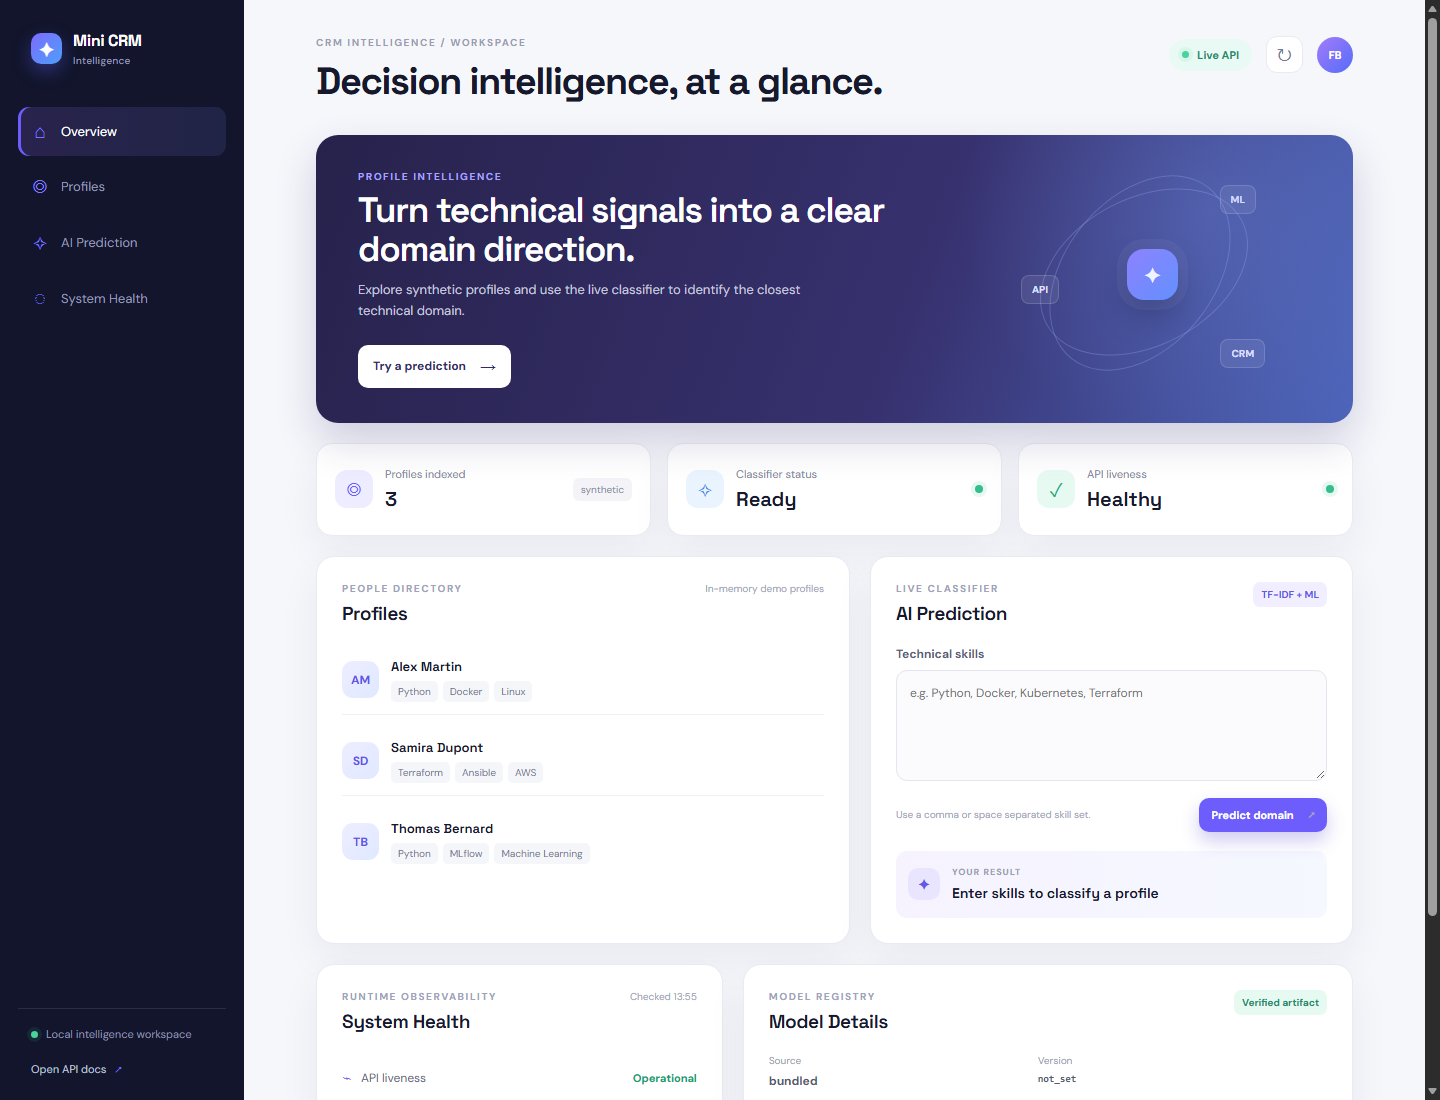
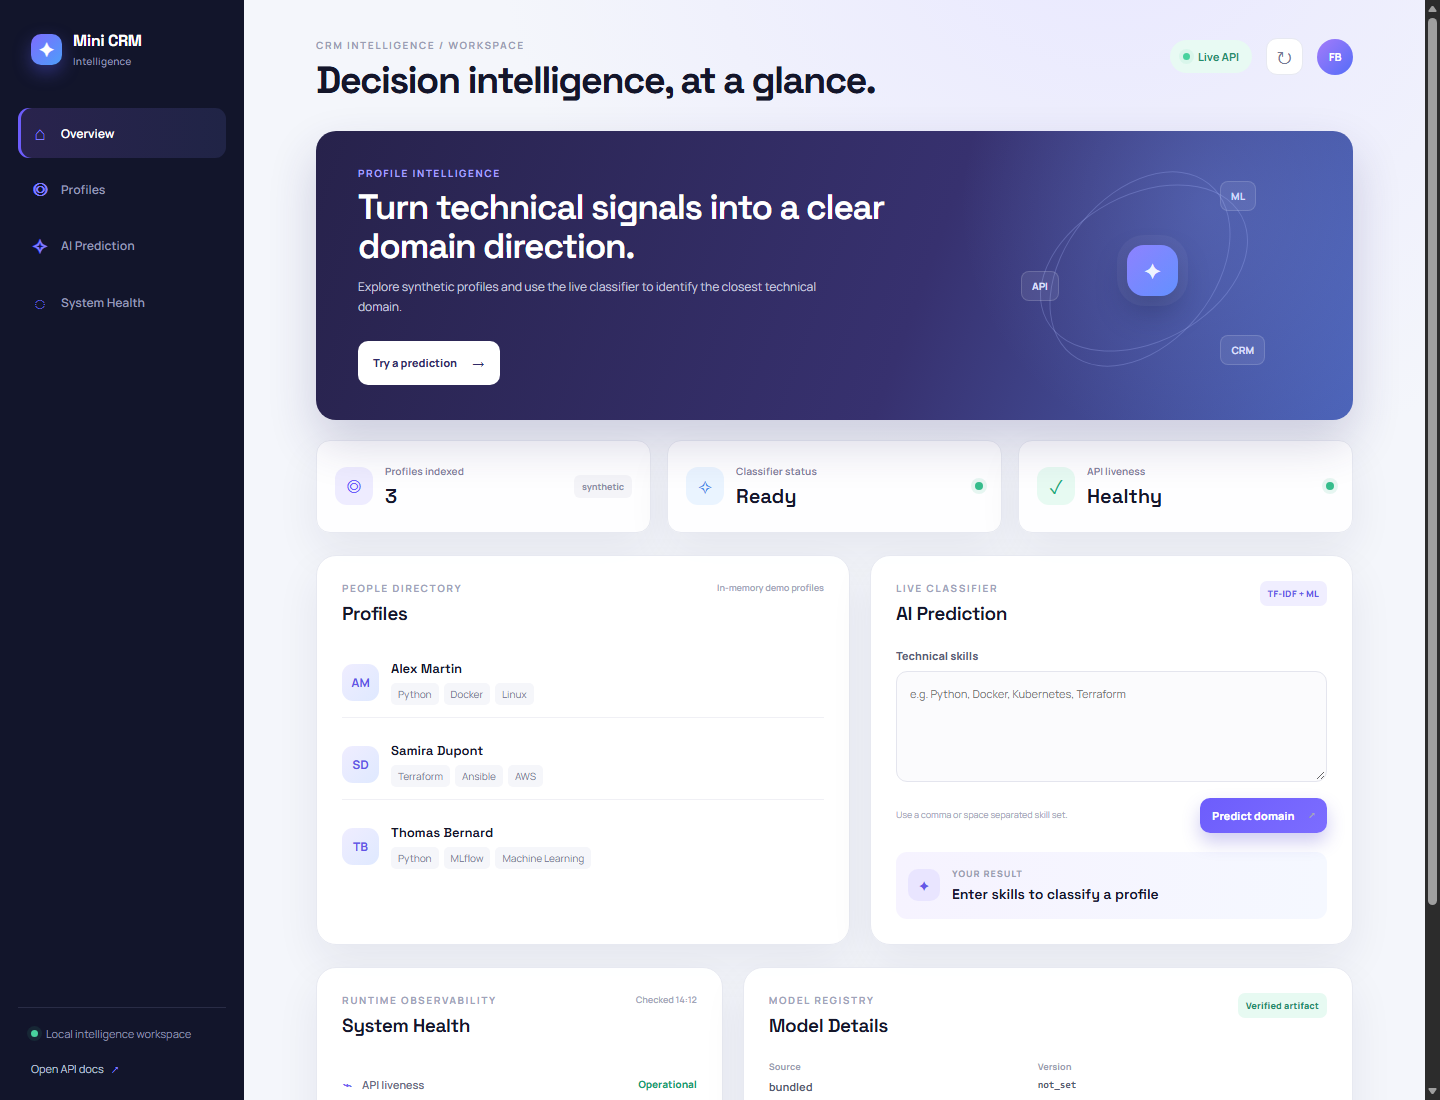
style(ui): refine dashboard typography and layout

diff --git a/app/static/styles.css b/app/static/styles.css
@@ -1,4 +1,4 @@
-@import url('https://fonts.googleapis.com/css2?family=DM+Sans:wght@400;500;600;700&family=Space+Grotesk:wght@500;600;700&display=swap');
+@import url('https://fonts.googleapis.com/css2?family=Manrope:wght@400;500;600;700;800&family=Space+Grotesk:wght@500;600;700&display=swap');
 
 :root { --ink:#16182b; --muted:#8589a3; --line:#e9eaf2; --panel:#fff; --bg:#f6f7fb; --violet:#6d5dfc; --blue:#4f9cf9; --green:#36bd8c; --shadow:0 16px 40px rgba(33,32,74,.06); }
 * { box-sizing:border-box; }
@@ -30,3 +30,34 @@ button, textarea { font:inherit; }
 .lower-grid { grid-template-columns:.8fr 1.2fr; }.health-list { display:grid; gap:0; }.health-row { display:flex; justify-content:space-between; align-items:center; padding:13px 0; border-bottom:1px solid #f0f0f5; font-size:12px; }.health-row:last-child { border-bottom:0; }.health-label { display:flex; align-items:center; gap:9px; color:#676a83; }.health-icon { color:#7164f1; font-size:16px; }.health-value { color:#999caf; font-size:11px; }.health-value.ok { color:#1b9d70; font-weight:700; }.health-value.error { color:#d66c6c; font-weight:700; }.model-details { display:grid; grid-template-columns:1fr 1.2fr; gap:16px 28px; }.model-details div:last-child { grid-column:1/-1; }.model-details span { display:block; margin-bottom:6px; color:#9a9db2; font-size:10px; }.model-details strong,.hash-button { display:block; max-width:100%; overflow:hidden; text-overflow:ellipsis; white-space:nowrap; color:#555970; font-size:12px; }.mono { font-family:ui-monospace,SFMono-Regular,Menlo,monospace; font-size:10px !important; }.hash-button { width:100%; padding:0; text-align:left; border:0; background:none; cursor:pointer; }.hash-button:hover { color:var(--violet); }.page-footer { display:flex; justify-content:space-between; padding:20px 2px 0; color:#a1a4b6; font-size:10px; }.toast { position:fixed; right:25px; bottom:22px; padding:11px 14px; border-radius:10px; color:#fff; background:#21243d; box-shadow:0 10px 30px #17172d33; font-size:11px; opacity:0; transform:translateY(10px); pointer-events:none; transition:.25s; }.toast.show { opacity:1; transform:translateY(0); }
 @media (max-width:1050px) { .sidebar { width:210px; }.main-content { width:calc(100% - 210px); margin-left:210px; padding:28px; }.hero-orbit { margin-right:0; transform:scale(.85); }.content-grid,.lower-grid { grid-template-columns:1fr; } }
 @media (max-width:700px) { .sidebar { position:static; width:100%; min-height:auto; padding:16px; }.app-shell { display:block; }.brand { padding:0 4px 17px; }.nav-list { display:flex; overflow:auto; gap:5px; }.nav-item { flex:none; padding:9px 10px; font-size:11px; }.nav-item.active { box-shadow:none; }.sidebar-footer { display:none; }.main-content { width:100%; margin:0; padding:23px 16px; }.topbar { align-items:center; margin-bottom:23px; }.topbar h1 { font-size:25px; }.topbar-actions .live-pill { display:none; }.hero-card { padding:26px; min-height:290px; }.hero-orbit { position:absolute; opacity:.5; right:-35px; bottom:-30px; }.metric-grid { grid-template-columns:1fr; gap:10px; }.panel { padding:19px; }.form-footer { align-items:flex-start; flex-direction:column; }.form-footer .primary-button { width:100%; justify-content:center; }.page-footer { gap:10px; flex-direction:column; } }
+/* Refined visual system: clearer hierarchy, typography and spacing. */
+:root { --ink:#14162a; --muted:#7d819b; --line:#e7e9f1; --shadow:0 18px 44px rgba(33,32,74,.07); --radius-lg:20px; --radius-md:14px; }
+body { background:radial-gradient(circle at 78% -10%,#e8e7ff 0,transparent 34%),#f4f6fb; font-family:'Manrope','DM Sans',system-ui,sans-serif; font-size:14px; -webkit-font-smoothing:antialiased; }
+.brand small { font-family:'Manrope','DM Sans',sans-serif; }
+.nav-item { font-size:12px; font-weight:600; letter-spacing:.05px; }
+.main-content { padding-top:38px; padding-bottom:30px; }
+.topbar h1 { line-height:1.08; letter-spacing:-1.6px; }
+.hero-card { border-radius:var(--radius-lg); box-shadow:0 22px 48px #2f2b6c32; }
+.hero-copy p:not(.hero-kicker) { font-size:12px; line-height:1.7; }
+.primary-button { background:linear-gradient(135deg,#6d5dfc,#7c6dff); font-size:11px; font-weight:800; }
+.primary-button:disabled { opacity:.7; cursor:wait; transform:none; }
+.metric-grid { margin-bottom:22px; }
+.metric-card { background:rgba(255,255,255,.9); border-radius:var(--radius-md); }
+.metric-card p { font-size:10px; font-weight:600; letter-spacing:.15px; }
+.metric-trend { font-size:9px; font-weight:700; }
+.content-grid { margin-bottom:22px; }
+.panel { background:rgba(255,255,255,.94); border-radius:var(--radius-lg); }
+.panel-heading { margin-bottom:22px; }
+.panel-caption,.last-checked { font-size:9px; font-weight:600; }
+.ai-badge,.model-badge { font-size:9px; font-weight:800; letter-spacing:.2px; }
+.prediction-form label { font-size:11px; font-weight:800; }
+.prediction-form textarea { font-size:11px; line-height:1.6; }
+.form-footer span { font-size:9px; }
+.prediction-result small { font-weight:800; }
+.health-row { font-size:11px; }
+.health-label { font-weight:600; }
+.health-value { font-size:10px; }
+.health-value.ok,.health-value.error { font-weight:800; }
+.model-details span { font-size:9px; font-weight:700; letter-spacing:.15px; }
+.model-details strong,.hash-button { font-size:11px; }
+.page-footer { font-size:9px; font-weight:600; }
